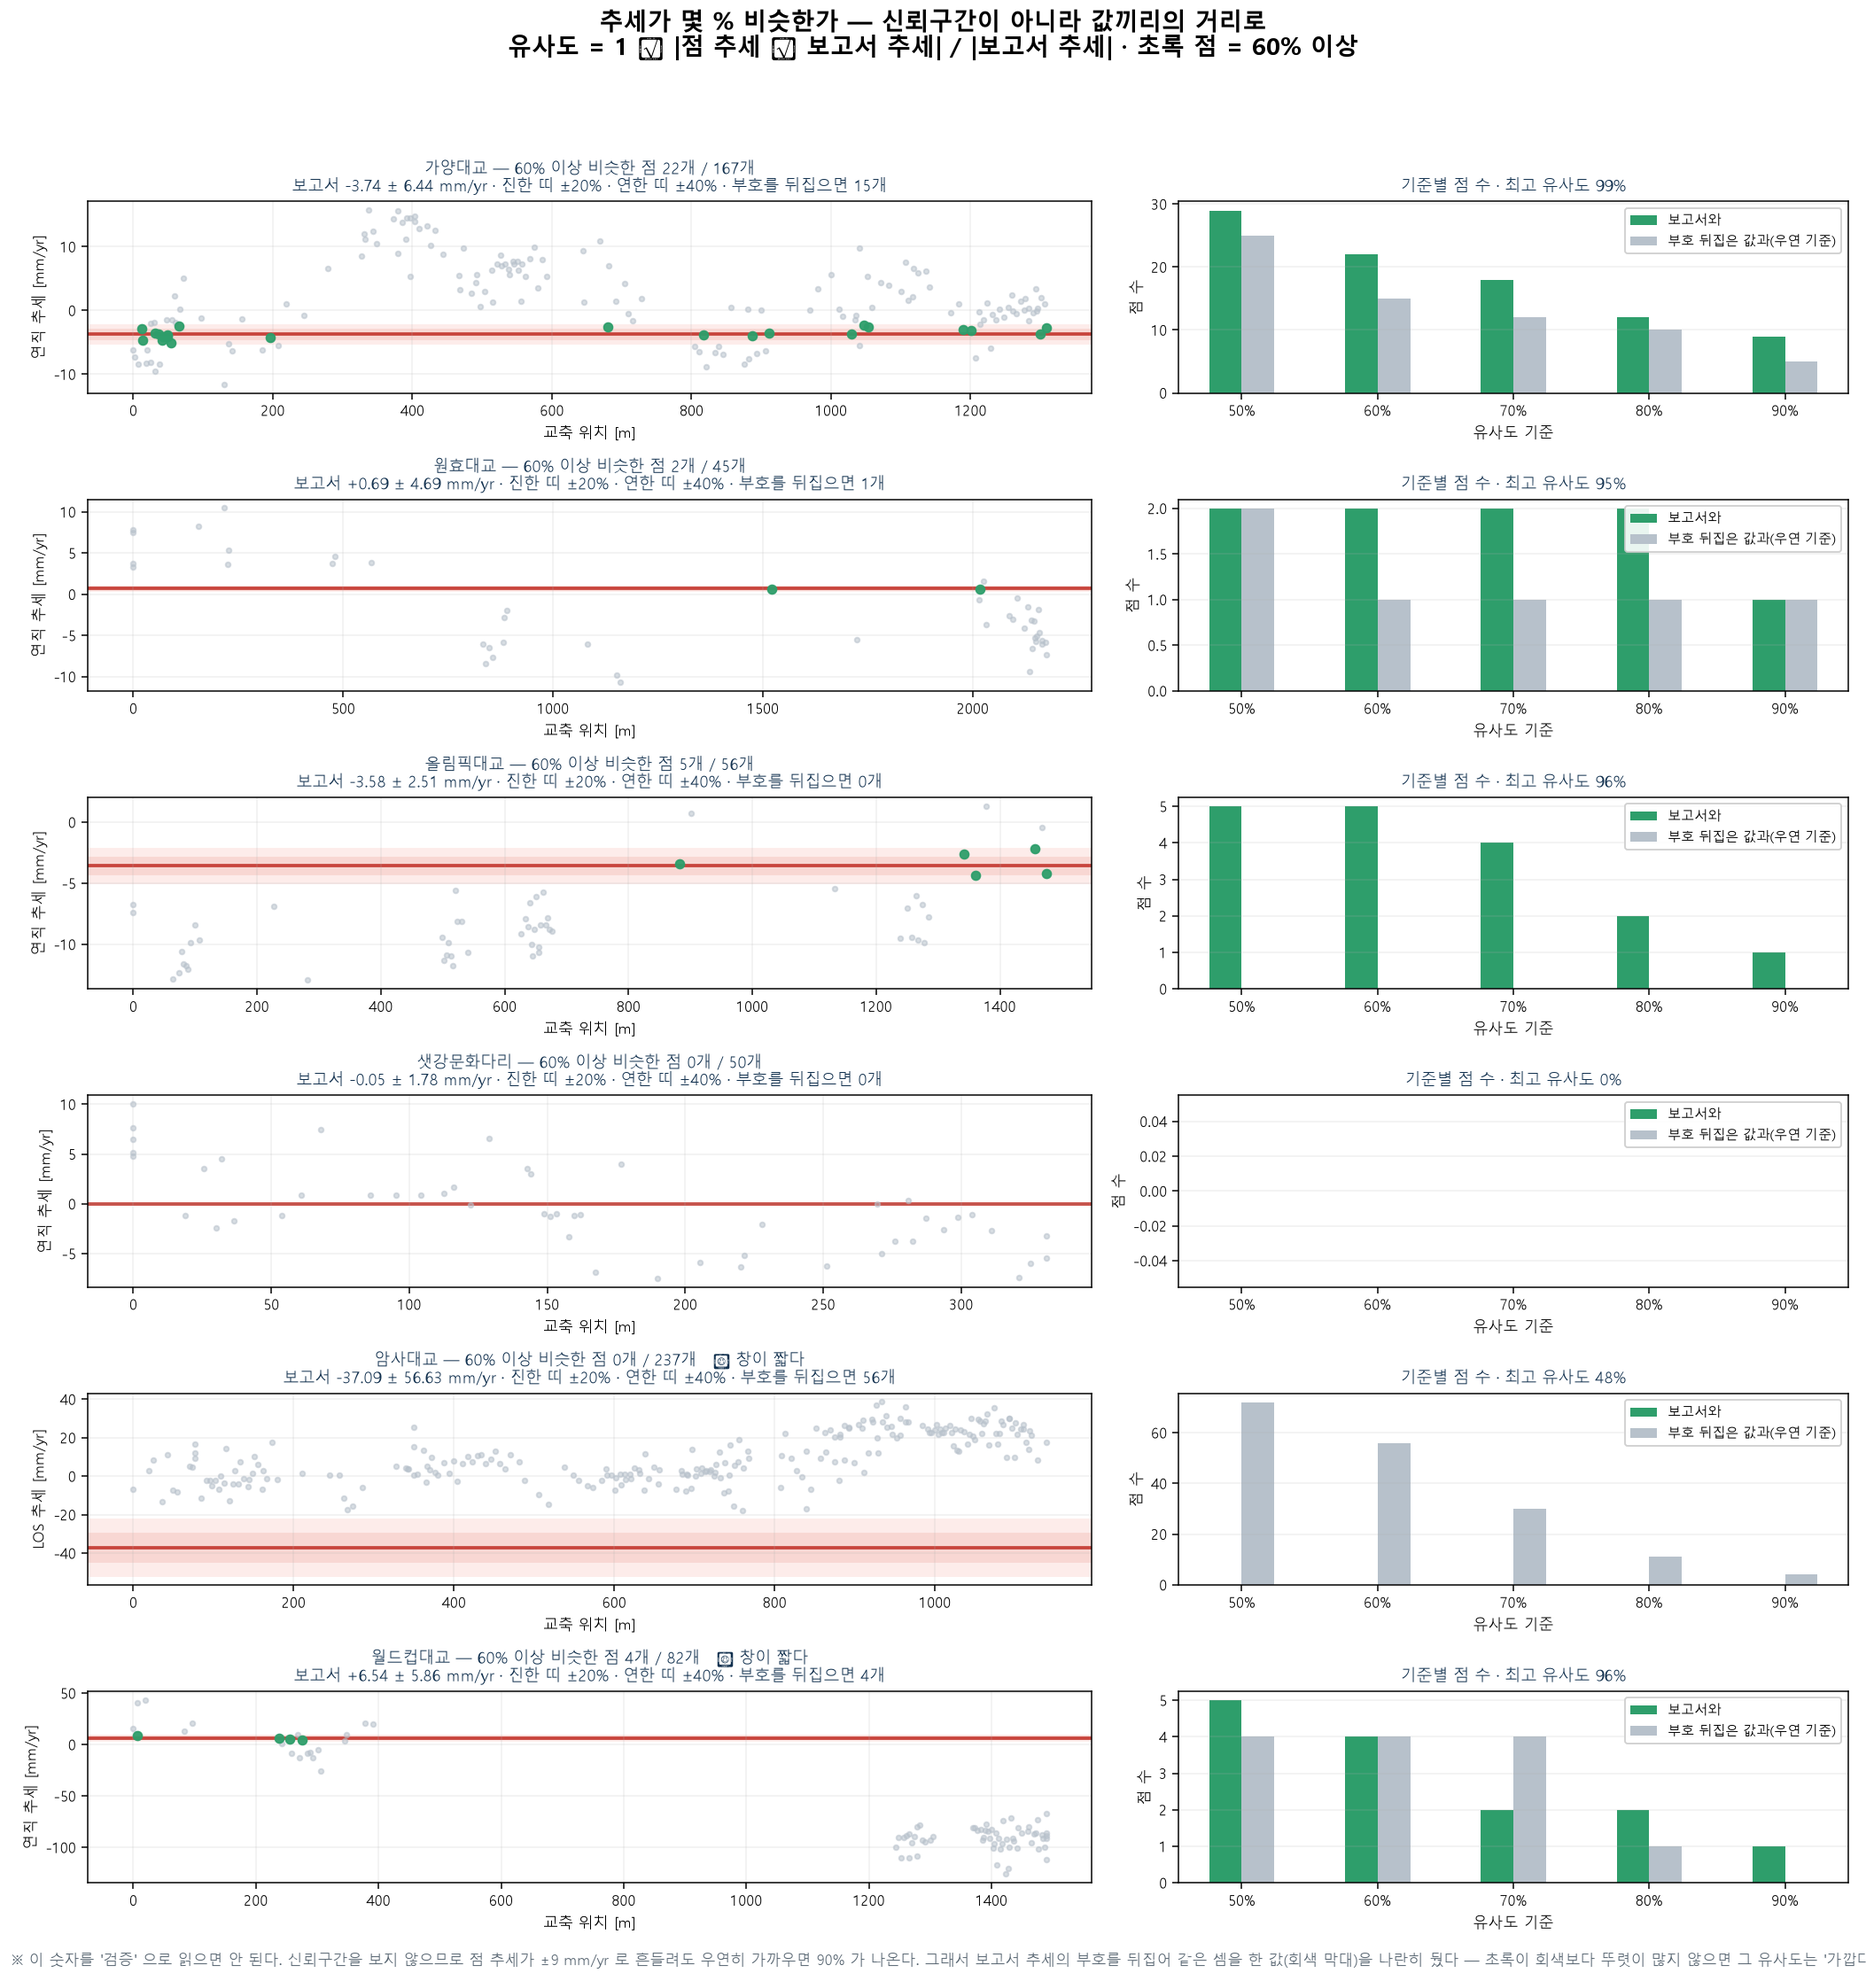
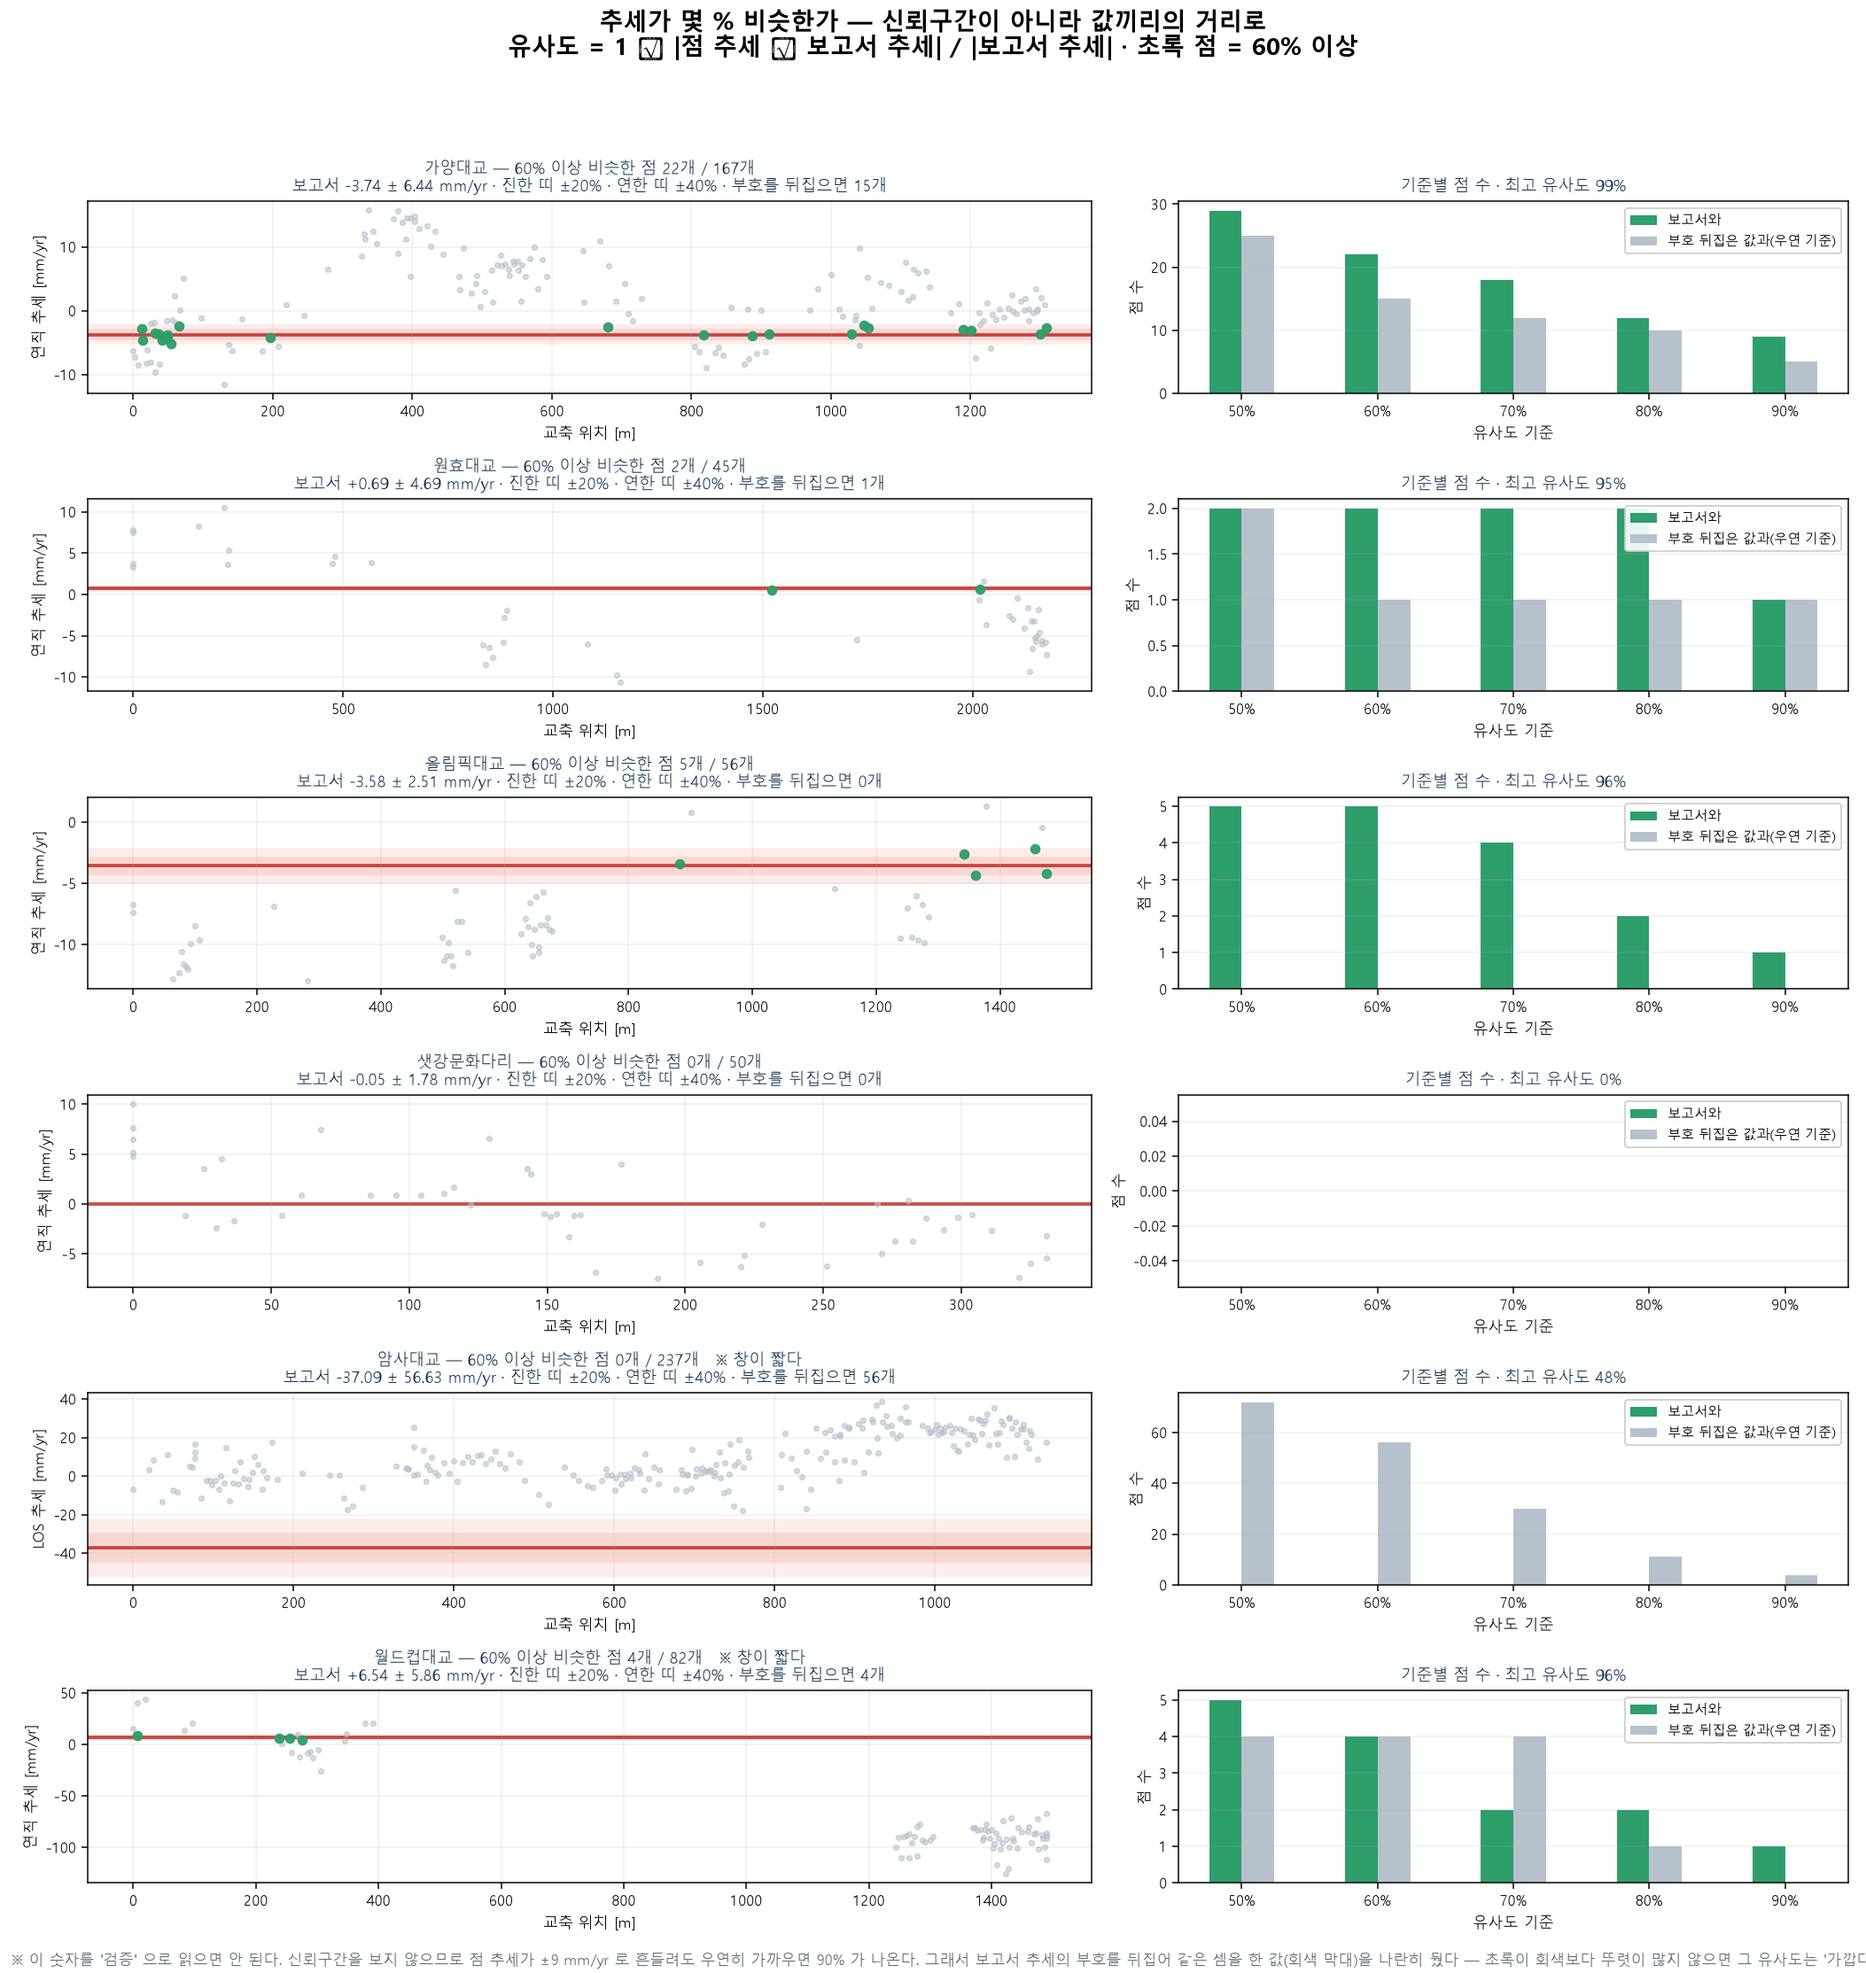
feat(report): 추세선을 선으로 겹쳐 본다 — 얼마나 나란한가
막대(기준별 점 수)로는 '얼마나 비슷한지' 가 눈에 안 들어온다는 지적이 맞다. 선으로
겹쳐 그린다.

  docs/img/추세선_비교.png — 교량마다 한 판
    붉은 굵은 선 = 보고서 추세  ·  초록 = 60% 이상 비슷한 점(교축 위치·유사도 표시)
    회색 = 나머지 점 전부       ·  모두 창 가운데에서 0 으로 맞췄다(기울기만 남는다)

**올림픽대교가 눈으로도 확실하다** — 초록 네 선이 붉은 선과 거의 포개진다(교축 883 m
96% · 1475 m 84% · 1360 m 79% · 1343 m 72%). 회색 다발도 아래쪽으로 쏠려 있어,
붉은 선이 다발의 가운데를 지난다.

반대로 **가양대교는 조심해야 한다.** 초록이 22개로 가장 많지만 회색 다발이 ±20 mm 로
크게 벌어져 붉은 선을 넓게 감싼다 — 나란한 것이 아니라 **분포가 넓어서** 그 안에 든
것이다. 부호를 뒤집어도 15개가 남는 것과 같은 이야기다.

**암사대교는 한눈에 어긋난다** — 붉은 선이 -37 mm/yr 로 가파르게 내려가는데 회색
다발은 거의 수평이다. 신축변위라 연직 환산이 성립하지 않는 것까지 겹쳤다.

**샛강문화다리는 붉은 선이 거의 수평이다**(-0.05 mm/yr). 분모가 0 에 가까워 유사도
지표 자체가 의미를 잃는 경우를 그림이 그대로 보여 준다.

각주에 읽는 법을 적었다 — 회색 다발이 붉은 선을 넓게 감싸고 있으면, 초록 선이 나란한
것은 '가깝다' 가 아니라 '점 추세 분포가 넓어서' 일 수 있다.

⚠(U+26A0)는 맑은 고딕에 없어 네모가 된다 → ※ 로.

pytest 1111 passed · 7 skipped.

Claude-Session: https://claude.ai/code/session_01KvQUYp8kfNGJBXHcvrwkiY

diff --git a/scripts/make_trend_similarity.py b/scripts/make_trend_similarity.py
@@ -61,6 +61,64 @@ def similarity(b_pt: np.ndarray, b_rep: float) -> np.ndarray:
     return np.clip(1.0 - np.abs(b_pt - b_rep) / abs(b_rep), 0.0, 1.0)
 
 
+def line_figure(keep, out: Path) -> None:
+    """**추세선끼리** 겹쳐 본다 — 막대 개수 말고 선이 얼마나 나란한가.
+
+    같은 창에서 각 직선을 창 가운데 기준으로 0 에 맞춰 그린다. 기울기만 남으므로
+    선이 나란하면 추세가 같은 것이고, 벌어지면 다른 것이다.
+    """
+    n = len(keep)
+    ncol = 2
+    nrow = (n + ncol - 1) // ncol
+    fig, axes = plt.subplots(nrow, ncol, figsize=(15.6, 3.1 * nrow))
+    axes = np.atleast_1d(axes).ravel()
+    for ax, (nm, st, b_pt, ci_pt, sim, sim_flip, b_rep, ci_rep, what, how, r,
+             tt, LL, cosv) in zip(axes, keep):
+        t0, tm = float(tt.min()), float(tt.mean())
+        xs = np.linspace(tt.min(), tt.max(), 40)
+        good = np.isfinite(b_pt) & np.isfinite(sim)
+        for j in np.where(good & (sim < 0.6))[0]:
+            ax.plot(xs, b_pt[j] * (xs - tm), "-", lw=.7, color=GRAY, alpha=.35)
+        order = np.where(good & (sim >= 0.6))[0]
+        order = order[np.argsort(-sim[order])]
+        for k, j in enumerate(order[:8]):
+            lbl = (f"교축 {st[j]:.0f} m · {sim[j]:.0%}"
+                   if np.isfinite(st[j]) else f"{sim[j]:.0%}")
+            ax.plot(xs, b_pt[j] * (xs - tm), "-", lw=1.9, color=GREEN,
+                    alpha=.9 - .06 * k, label=lbl if k < 4 else None)
+        ax.plot(xs, b_rep * (xs - tm), "-", lw=3.4, color=RED,
+                label=f"보고서 {b_rep:+.2f} mm/yr", zorder=6)
+        ax.axhline(0, color="#999", lw=.8)
+        ax.grid(alpha=.2)
+        ax.set_xlabel("연", fontsize=9)
+        ax.set_ylabel(("연직 변위 [mm]" if r["vertical"] else "LOS 변위 [mm]"),
+                      fontsize=9)
+        ax.set_title(f"{nm} — 추세선 {len(order)}개가 60% 이상 나란하다"
+                     + ("   ※ 창이 짧다" if r["short"] else ""),
+                     fontsize=10, color=NAVY, pad=6)
+        if len(order):
+            ax.legend(fontsize=7.8, framealpha=.9, loc="best")
+        else:
+            ax.legend(fontsize=8, framealpha=.9, loc="best")
+        ax.tick_params(labelsize=8.5)
+    for ax in axes[len(keep):]:
+        ax.axis("off")
+    fig.suptitle("추세선끼리 겹쳐 보기 — 얼마나 나란한가\n"
+                 "붉은 굵은 선 = 보고서 추세 · 초록 = 60% 이상 비슷한 점 · "
+                 "회색 = 나머지 점 (모두 창 가운데에서 0 으로 맞춤)",
+                 fontsize=14.5, fontweight="bold", y=0.995)
+    fig.text(0.006, 0.004,
+             "※ 기울기만 보려고 각 직선을 창 가운데에서 0 으로 맞췄다. 선이 나란하면 추세가 "
+             "같은 것이고 벌어지면 다르다. 회색 다발이 붉은 선을 넓게 감싸고 있으면, "
+             "초록 선이 나란한 것은 '점 추세 분포가 넓어서' 일 수 있다.",
+             fontsize=8.8, color=DIM)
+    fig.tight_layout(rect=(0, 0.014, 1, 0.955))
+    out.parent.mkdir(parents=True, exist_ok=True)
+    fig.savefig(out, dpi=135)
+    plt.close(fig)
+    print("wrote", out)
+
+
 def main() -> int:
     ap = argparse.ArgumentParser()
     ap.add_argument("--auto", default="docs/bridges/hangang_gnss_monthly.json")
@@ -68,6 +126,7 @@ def main() -> int:
     ap.add_argument("--root", default="docs/bridges")
     ap.add_argument("--out", default="docs/img/추세유사도.png")
     ap.add_argument("--json-out", default="docs/bridges/trend_similarity.json")
+    ap.add_argument("--line-out", default="docs/img/추세선_비교.png")
     a = ap.parse_args()
 
     auto = json.loads(Path(a.auto).read_text(encoding="utf-8")) \
@@ -125,14 +184,14 @@ def main() -> int:
                       for j in order[:12]],
             "short": bool((hi - lo) < 1.5 or int(sel.sum()) < 8)})
         keep.append((nm, st, b_pt, ci_pt, sim, sim_flip, b_rep, ci_rep, what, how,
-                     rows[-1]))
+                     rows[-1], ti[sel], los[:, sel], cosv))
 
     n = len(keep)
     fig, axes = plt.subplots(n, 2, figsize=(15.6, 2.75 * n),
                              gridspec_kw={"width_ratios": [1.5, 1]})
     axes = np.atleast_2d(axes)
     for i, (nm, st, b_pt, ci_pt, sim, sim_flip, b_rep, ci_rep, what, how,
-            r) in enumerate(keep):
+            r, _tt, _LL, _cos) in enumerate(keep):
         ax, bx = axes[i]
         good = np.isfinite(b_pt) & np.isfinite(st) & np.isfinite(sim)
         hit = good & (sim >= 0.6)
@@ -148,7 +207,7 @@ def main() -> int:
                       fontsize=9)
         c60, f60 = r["count_at"]["60%"], r["count_at_flipped"]["60%"]
         ax.set_title(f"{nm} — 60% 이상 비슷한 점 {c60}개 / {r['n_points']}개"
-                     + ("   ⚠ 창이 짧다" if r["short"] else "") + "\n"
+                     + ("   ※ 창이 짧다" if r["short"] else "") + "\n"
                      f"보고서 {b_rep:+.2f} ± {ci_rep:.2f} mm/yr · "
                      f"진한 띠 ±20% · 연한 띠 ±40% · 부호를 뒤집으면 {f60}개",
                      fontsize=9.4, color=NAVY, pad=6)
@@ -186,6 +245,8 @@ def main() -> int:
     fig.savefig(a.out, dpi=135)
     plt.close(fig)
     print("wrote", a.out)
+
+    line_figure(keep, Path(a.line_out))
 
     Path(a.json_out).write_text(json.dumps(
         {"_설명": "보고서 추세와 PS 점 추세의 상대 유사도(1 − 상대오차)",
